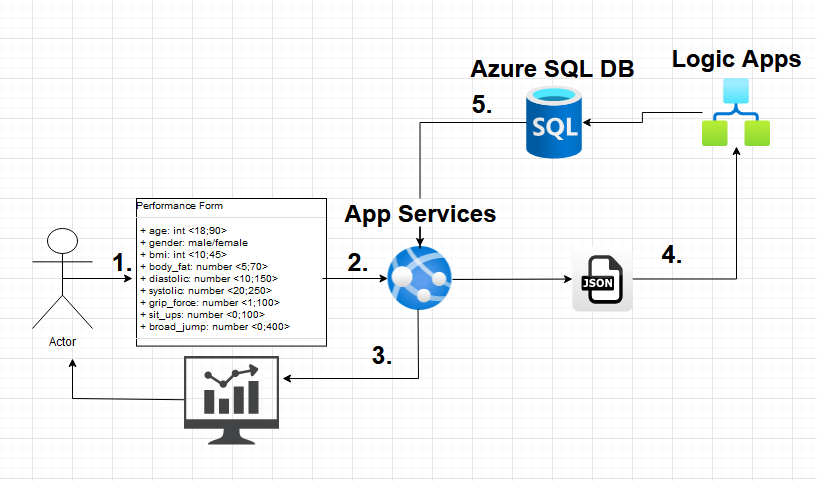
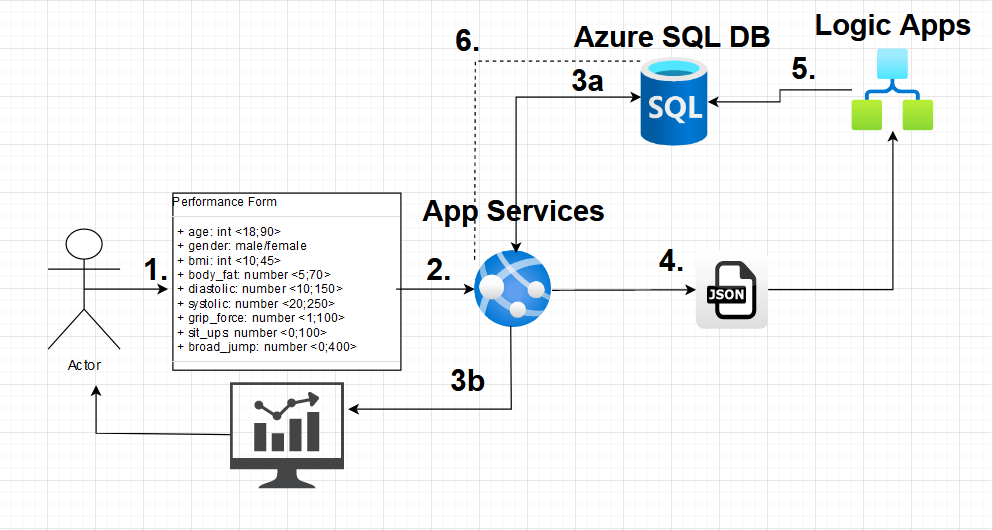
graph tweaking, read me correction,dashboard tweak

Changed region(s): [[0.0306, 0.2495, 0.7956, 0.9356], [0.459, 0.0312, 0.9792, 0.5925], [0.0612, 0.7484, 0.0918, 0.7796]]

diff --git a/templates/dashboard.html b/templates/dashboard.html
@@ -2,7 +2,7 @@
 <html lang="en">
 <head>
     <meta charset="UTF-8">
-   <title>Make A Short URL</title>
+   <title>Dashboard</title>
 </head>
 
 <!-- sssssssssssssss-->
@@ -34,7 +34,7 @@
         <div id="chart3" class="chart_container1"></div>
         <div id="chart4" class="chart_container2"></div>
         <div style ="clear:both">
-            <h6><a href="/main">Return to form</a></h6>
+            <h6><a href="/main" style = "height:1000px; width:1000px">Return to form</a></h6>
         </div>
     </div>
 </body>

diff --git a/app.py b/app.py
@@ -64,7 +64,8 @@ def results():
     sub_fig1 = px.bar(sql_query,x='bmi',y='count', color='class')
     sub_fig1.update_traces(opacity = 0.75)
     sub_fig1.update_layout(barmode='overlay')
-    sub_fig1.add_vline(x=to_predict_dict["bmi"], line_dash = 'dash', line_color = 'firebrick')
+    sub_fig1.add_vline(x=to_predict_dict["bmi"], line_dash = 'dash', line_color = 'firebrick',
+    labels={'count':'Count','bmi': 'BMI (dashed line is your score)'})
     #sub_fig1 = px.histogram(sql_query, x= 'bmi', color = 'class')
     # ,xbins=dict( 
     #     start=15.0,
@@ -82,15 +83,17 @@ def results():
 # WYKRES 2
     # SELECT
     sub_fig2 = px.scatter(sql_query, x="sit_ups", y="broad_jump_cm", color="class", marginal_y="violin",
-           marginal_x="box", trendline="ols", template="simple_white")
+           marginal_x="box", trendline="ols", template="simple_white", 
+           labels={'sit_ups':'Sit ups count','broad_jump_cm': 'Broad jump distance in centimeters'})
 
 # WYKRES 3
     df_2 = pd.DataFrame({'count' : sql_query.groupby('class')['body_fat'].mean()}).reset_index() 
-    sub_fig3 = px.bar(df_2, x = 'class', y = 'count', color = 'class')
+    sub_fig3 = px.bar(df_2, x = 'class', y = 'count', color = 'class', labels={'count':'Average body fat'})
 
 # WYKRES 4
     # SELECT 
-    sub_fig4 = px.scatter(sql_query, x="grip_force", y="sit_ups", color="class",size='grip_force', hover_data=['grip_force'])
+    sub_fig4 = px.scatter(sql_query, x="grip_force", y="sit_ups", color="class",size='grip_force', hover_data=['grip_force']
+        labels={'grip_force':'Grip Force (position + size)','sit_ups':'Sit ups count'})
 
 
     graphJSON1 = json.dumps(sub_fig1, cls=plotly.utils.PlotlyJSONEncoder)

diff --git a/README.MD b/README.MD
@@ -13,7 +13,13 @@
 
 ![app diagram](https://github.com/pkaweck/Flask_app/blob/master/images/App_Diagram.png?raw=true "Diagram technologiczny aplikacji")
 
-
+    1. Użytkonik wchodzi w interakcję z interfejsem
+    2. Wyniki wysyłane są do aplikacje w Azure App Services, gdzie wykonywana jest predykcja
+    3a. Wyniki predykcji inicjują pobranie danych z bazy w celu stworzenia wizualizacji
+    3b. Użytkownik zostaje przekierowany na stronę dashboardu
+    4. Dane wprowadzone przez użytkownika zostają spakowane do JSONa wysłane poprzez HTTP request POST do pipeline'u Azure Logic Apps
+    5. Dane zostają rozpakowane z obiektu JSON i wprowadzone do odpowiedniej tabeli w bazie danych
+    6. Zależnie od potrzeby manualnie jest wykonywane przyuczenie modelu machine learningowego na nowych danych
 
 
 # **Specyfikacja wymagań**
